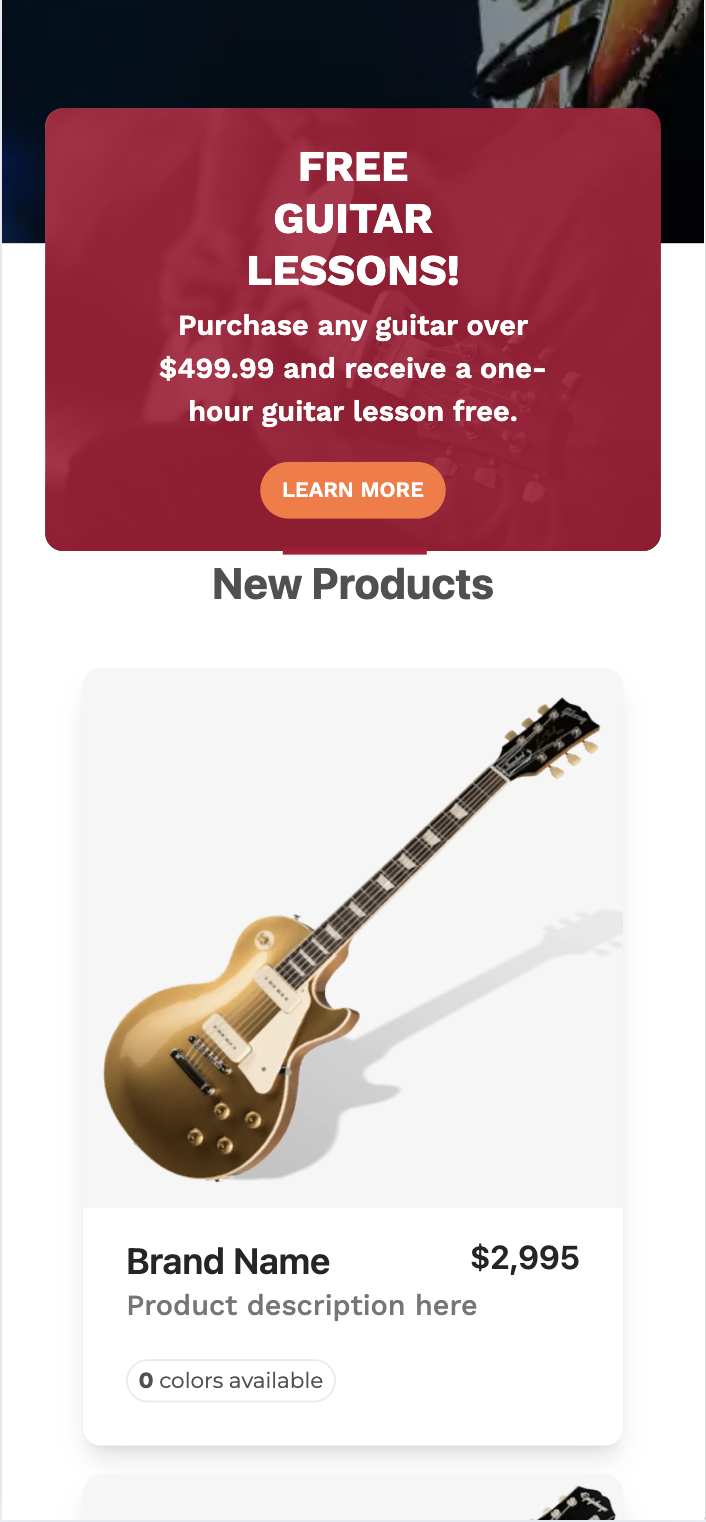
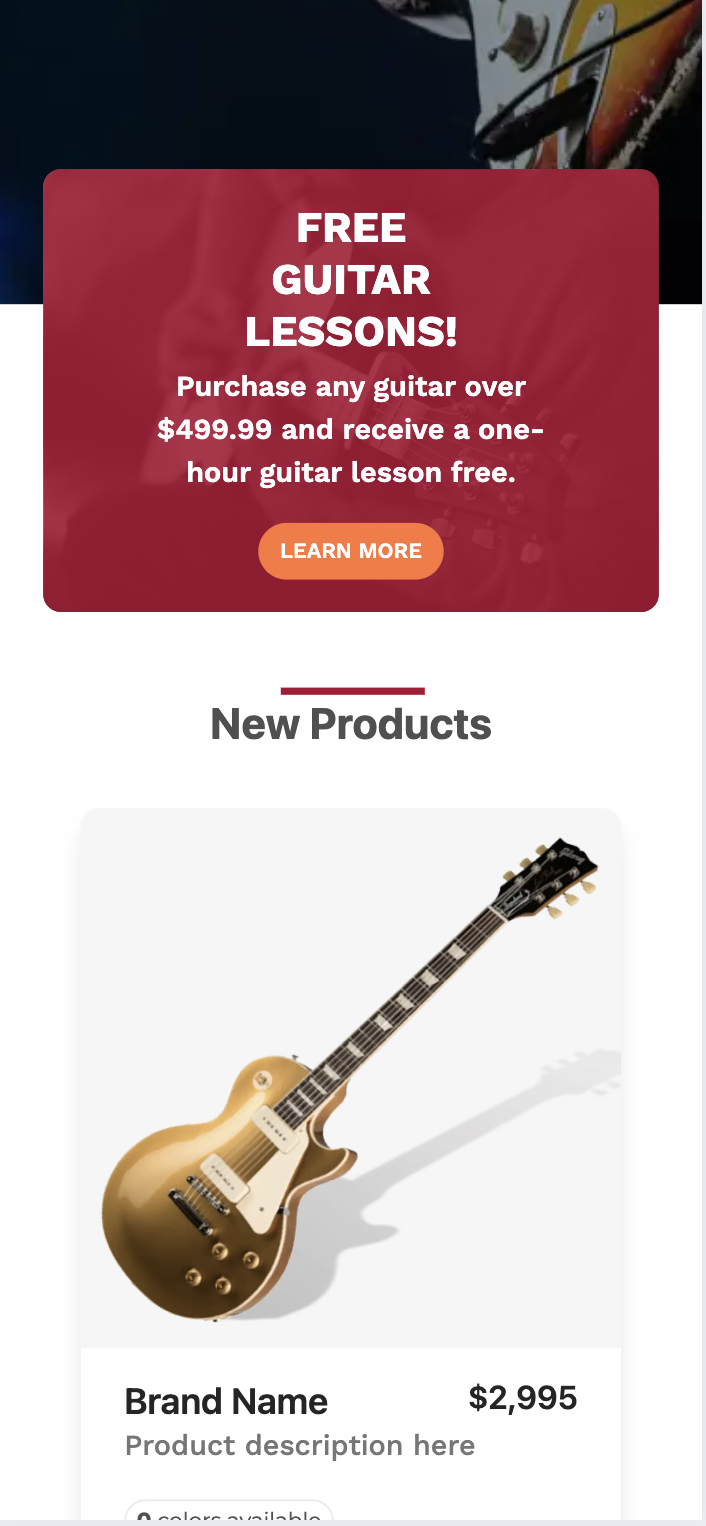
feat: integrate responsive behavior

diff --git a/lib/components/footer/index.tsx b/lib/components/footer/index.tsx
@@ -1,24 +1,34 @@
 import { FC } from "react";
+import NextImage from "next/image";
 import { SectionPin } from "../section-pin";
 import { H5, CaptionText } from "../typography";
+import Brand from "../../../public/assets/hero/brand.png";
 
-const FooterSection = () => {
+type FooterSection = {
+  title: string;
+  links: string[];
+  mode?: "mobile" | "desktop";
+};
+interface FooterSectionProps extends FooterSection {}
+const FooterSection: FC<FooterSectionProps> = ({
+  title,
+  links,
+  mode = "desktop",
+}) => {
   return (
-    <div className="flex flex-col items-center gap-[9px] pt-[46px]">
+    <div className="flex flex-col items-center gap-[9px] pt-[46px] md:items-start">
       <div className="relative text-center text-white">
-        <H5>My Account</H5>
+        <H5>{title}</H5>
         <SectionPin
+          left={mode === "mobile" ? "left-[25%]" : "left-[0%"}
           offsetTop="-top-3"
           pinWidth="w-[58px]"
           borderColor="border-white"
         />
       </div>
       <div>
-        <ul className="flex flex-col items-center gap-[9px] font-worksans text-[14px] leading-[1.3] text-white">
-          <li>Overview</li>
-          <li>Order History</li>
-          <li>Wishlist</li>
-          <li>Account Information</li>
+        <ul className="flex flex-col items-center gap-[9px] font-worksans text-[14px] leading-[1.3] text-white md:items-start">
+          {links?.map((link, idx) => <li key={idx}>{link}</li>)}
         </ul>
       </div>
     </div>
@@ -34,17 +44,56 @@ const SocialMedia = () => {
     </div>
   );
 };
-const Footer: FC = () => {
+
+const MobileView: FC<FooterProps> = ({ sections }) => {
   return (
-    <footer className="flex flex-col items-center justify-between gap-8 bg-darkgrey">
-      <div>
-        <FooterSection />
+    <footer className="md:hidden">
+      <div className="flex flex-col items-center justify-between gap-8 bg-darkgrey">
+        <div className="flex flex-row">
+          <section>
+            <FooterSection {...sections?.[0]} mode="mobile" />
+          </section>
+        </div>
+        <SocialMedia />
+        <div className="flex w-screen flex-col items-center bg-black py-2 text-white">
+          <CaptionText>©2021 Music Store</CaptionText>
+        </div>
       </div>
-      <SocialMedia />
-      <div className="flex w-screen flex-col items-center bg-black py-2 text-white">
+    </footer>
+  );
+};
+
+const DesktopView: FC<FooterProps> = ({ sections }) => {
+  return (
+    <footer className="hidden bg-darkgrey md:block">
+      <div className="flex flex-row justify-between pb-[52px] pt-[81px] md:px-16 lg:px-[100px]">
+        <div className="flex flex-row gap-12">
+          {sections?.map((section, idx) => (
+            <section key={idx}>
+              <FooterSection {...section} />
+            </section>
+          ))}
+        </div>
+        <div className="flex flex-col gap-[27px] self-end">
+          <NextImage src={Brand} alt="Brand" width={255} height={40} />
+          <SocialMedia />
+        </div>
+      </div>
+      <div className="flex w-screen flex-col items-center bg-black py-2 text-white md:items-start md:px-16 lg:px-[100px]">
         <CaptionText>©2021 Music Store</CaptionText>
       </div>
     </footer>
+  );
+};
+interface FooterProps {
+  sections: FooterSection[];
+}
+const Footer: FC<FooterProps> = ({ sections }) => {
+  return (
+    <>
+      <MobileView sections={sections} />
+      <DesktopView sections={sections} />
+    </>
   );
 };
 

diff --git a/lib/section/promo/index.tsx b/lib/section/promo/index.tsx
@@ -10,21 +10,21 @@ interface PromoProps {
 const Promo: FC<PromoProps> = ({ image, title, description, buttonText }) => {
   return (
     <section className="h-[20vh]">
-      <div className="relative mx-auto -mt-[75px] w-[calc(100%-48px)] rounded-[10px]">
+      <div className="relative mx-auto -mt-[75px] w-[calc(100%-48px)] rounded-[10px] lg:-mt-[100px]">
         <NextImage
           className="rounded-[10px] object-cover"
           src={image}
           alt=""
           fill
         />
-        <div className="relative flex h-fit w-full flex-col items-center rounded-[10px] bg-red bg-opacity-90 px-[51px] py-[18px]">
-          <div className="text-balance px-[80px] text-center font-worksans text-2xl font-bold uppercase leading-[1.2] text-white">
+        <div className="relative flex h-fit w-full flex-col items-center rounded-[10px] bg-red bg-opacity-90 px-[51px] py-[18px] lg:py-[50px]">
+          <div className="text-balance px-[80px] text-center font-worksans text-2xl font-bold uppercase leading-[1.2] text-white lg:text-[46px]">
             {title}
           </div>
-          <div className="mt-1 text-center font-worksans font-semibold leading-[1.5] text-white">
+          <div className="mt-1 text-center font-worksans font-semibold leading-[1.5] text-white lg:text-2xl">
             {description}
           </div>
-          <button className="mt-4 w-fit rounded-2xl bg-orange px-[12px] py-[8px] font-worksans text-[12px] font-semibold uppercase leading-[1.3] text-white">
+          <button className="mt-4 w-fit rounded-2xl bg-orange px-[12px] py-[8px] font-worksans text-[12px] font-semibold uppercase leading-[1.3] text-white lg:px-[16px] lg:text-sm">
             {buttonText}
           </button>
         </div>

diff --git a/app/page.tsx b/app/page.tsx
@@ -7,16 +7,15 @@ import { Footer } from "@/lib/components/footer";
 import store from "../store/index";
 
 export default function Home() {
-  const { hero, promo, products, articles } = store;
+  const { hero, promo, products, articles, footer } = store;
   return (
     <main className="flex flex-col">
       <Hero image={hero?.image} title={hero?.title} />
       <Promo {...promo} />
       <ProductSection title="New Products" products={products?.new} />
       <ProductSection title="Popular Finds" products={products?.popular} />
-      <ProductSection title="Popular Finds" products={products?.popular} />
-      <ArticleSection title="New Products" articles={articles} />
-      <Footer />
+      <ArticleSection title="Gear Heads" articles={articles} />
+      <Footer sections={footer?.sections} />
     </main>
   );
 }

diff --git a/lib/components/section-pin/index.tsx b/lib/components/section-pin/index.tsx
@@ -1,17 +1,25 @@
 import { FC } from "react";
 
 interface SectionPinProps {
+  left?: string;
   offsetTop?: string;
   pinWidth?: string;
   borderColor?: string;
 }
 const SectionPin: FC<SectionPinProps> = ({
+  left = "left-[25%]",
   offsetTop = "-top-1",
   pinWidth = "w-[80px]",
   borderColor = "border-red",
 }) => {
-  let baseClassName = "absolute left-[25%] border-2";
-  const className = [baseClassName, offsetTop, pinWidth, borderColor].join(" ");
+  let baseClassName = "absolute border-2";
+  const className = [
+    baseClassName,
+    left,
+    offsetTop,
+    pinWidth,
+    borderColor,
+  ].join(" ");
   return <div className={className} />;
 };
 

diff --git a/lib/section/hero/index.tsx b/lib/section/hero/index.tsx
@@ -17,7 +17,7 @@ const Hero: FC<HeroProps> = ({ image, title }) => {
         fill
       />
       <div className="absolute left-[50%] top-[30%] -translate-x-1/2 -translate-y-1/2 transform">
-        <p className="z-10 text-balance p-[12%] text-center font-worksans text-[32px] font-bold leading-[1.2] text-white">
+        <p className="z-10 text-balance p-[12%] text-center font-worksans text-[32px] font-bold leading-[1.2] text-white lg:text-[56px]">
           {title}
         </p>
       </div>

diff --git a/lib/templates/base-section/index.tsx b/lib/templates/base-section/index.tsx
@@ -13,7 +13,9 @@ const BaseSection: FC<BaseSectionProps> = ({ title, children }) => {
         <H4>{title}</H4>
         <SectionPin pinWidth="w-[80px]" borderColor="border-red" />
       </div>
-      <div className="flex flex-col items-center gap-4">{children}</div>
+      <div className="flex flex-col items-center gap-4 md:grid md:grid-cols-2 md:gap-8 xl:flex xl:flex-row">
+        {children}
+      </div>
     </section>
   );
 };

diff --git a/store/footer.tsx b/store/footer.tsx
@@ -1,0 +1,19 @@
+const footer = {
+  sections: [
+    {
+      title: "My Account",
+      links: ["Overview", "Order History", "Wishlist", "Account Information"],
+    },
+    {
+      title: "Store",
+      links: [
+        "Security Notice",
+        "Location & Hours",
+        "Rentals",
+        "Privacy Notice",
+      ],
+    },
+  ],
+};
+
+export { footer };

diff --git a/store/index.tsx b/store/index.tsx
@@ -2,6 +2,7 @@ import { hero } from "./hero";
 import { promo } from "./promo";
 import { newProducts, popularProducts } from "./products";
 import { articles } from "./articles";
+import { footer } from "./footer";
 
 export default {
   hero,
@@ -11,4 +12,5 @@ export default {
     popular: popularProducts,
   },
   articles,
+  footer,
 };

diff --git a/lib/components/header/index.tsx b/lib/components/header/index.tsx
@@ -1,5 +1,5 @@
 import { FC } from "react";
-import NextImage, { StaticImageData } from "next/image";
+import NextImage from "next/image";
 import Brand from "../../../public/assets/hero/brand.png";
 import Menu from "../../../public/assets/hero/menu.png";
 
